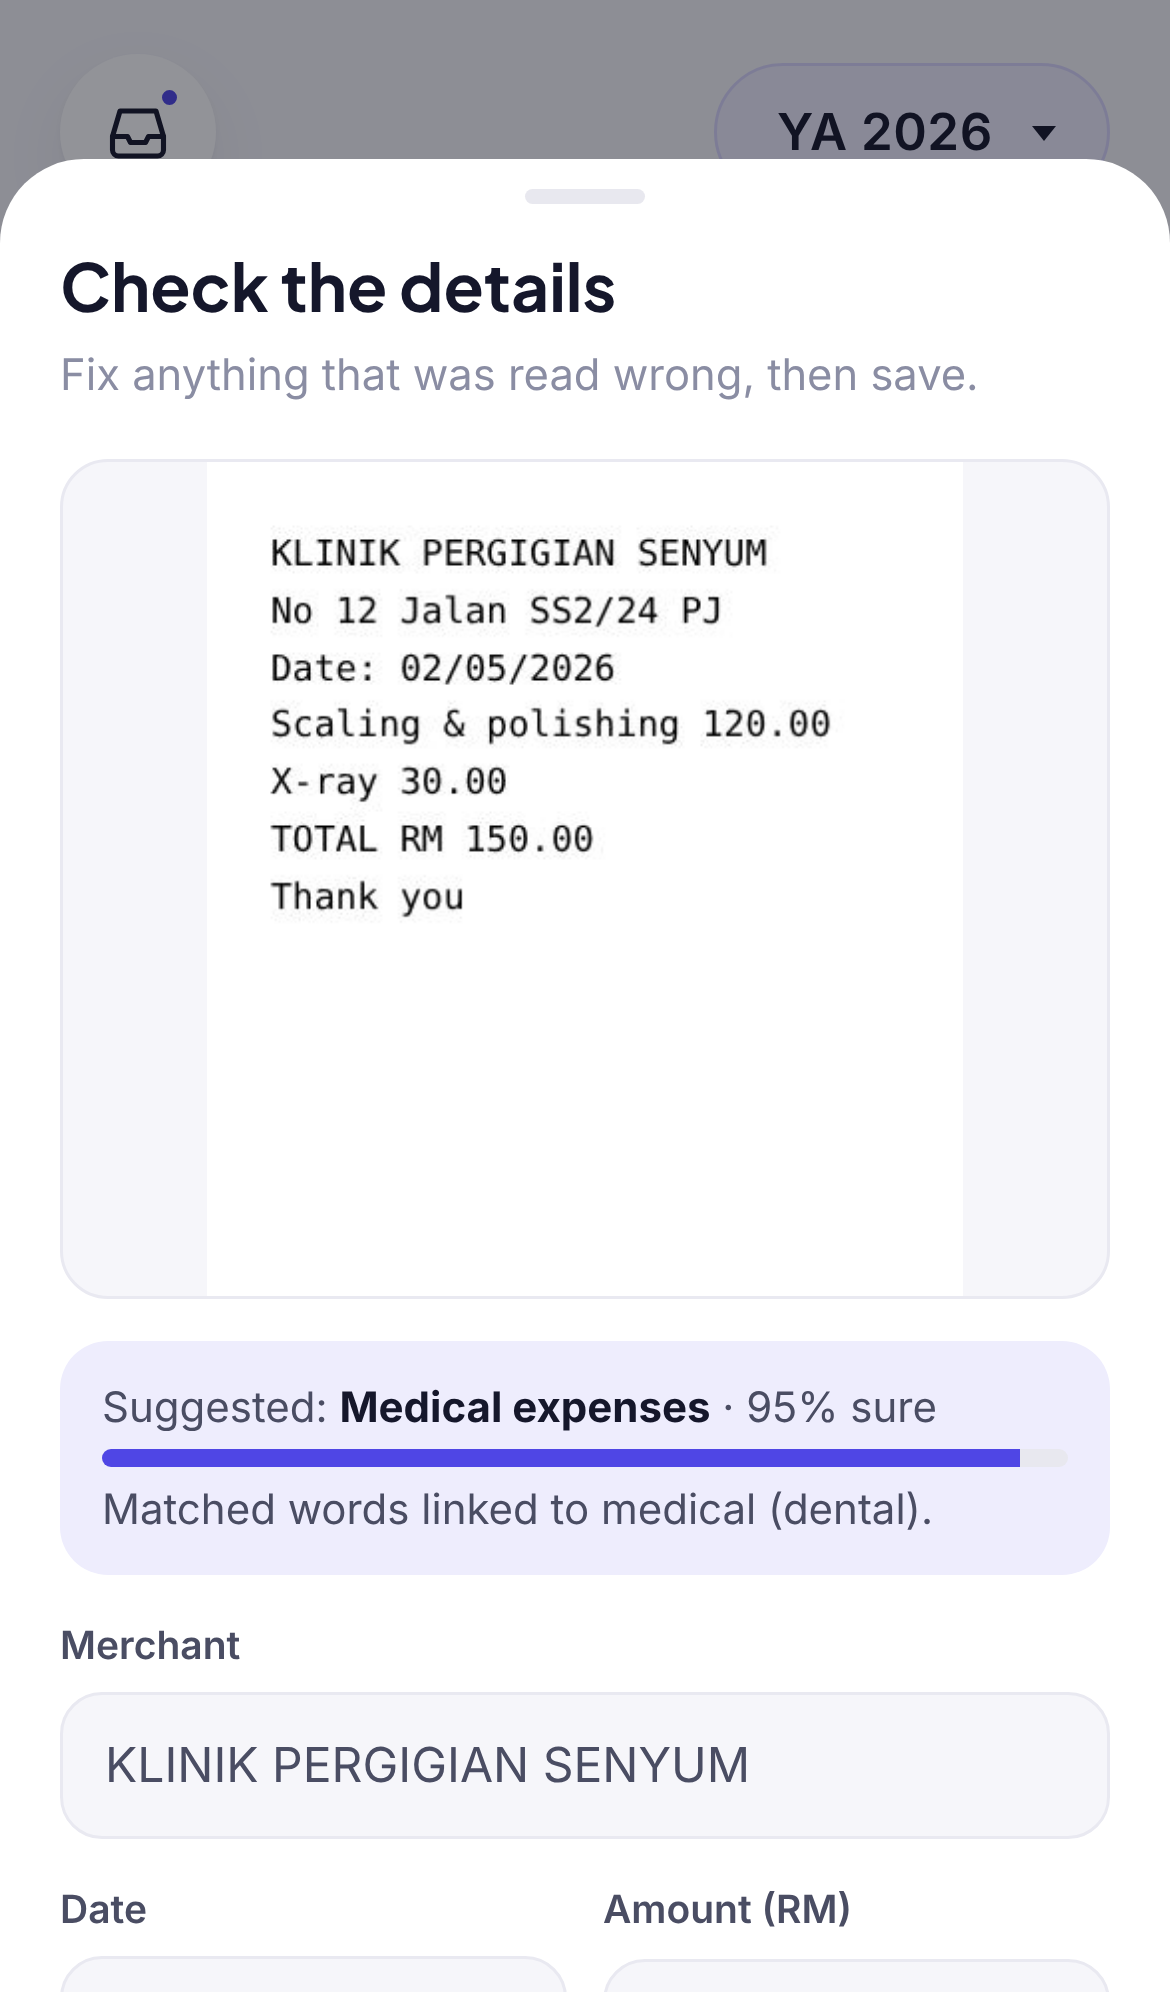
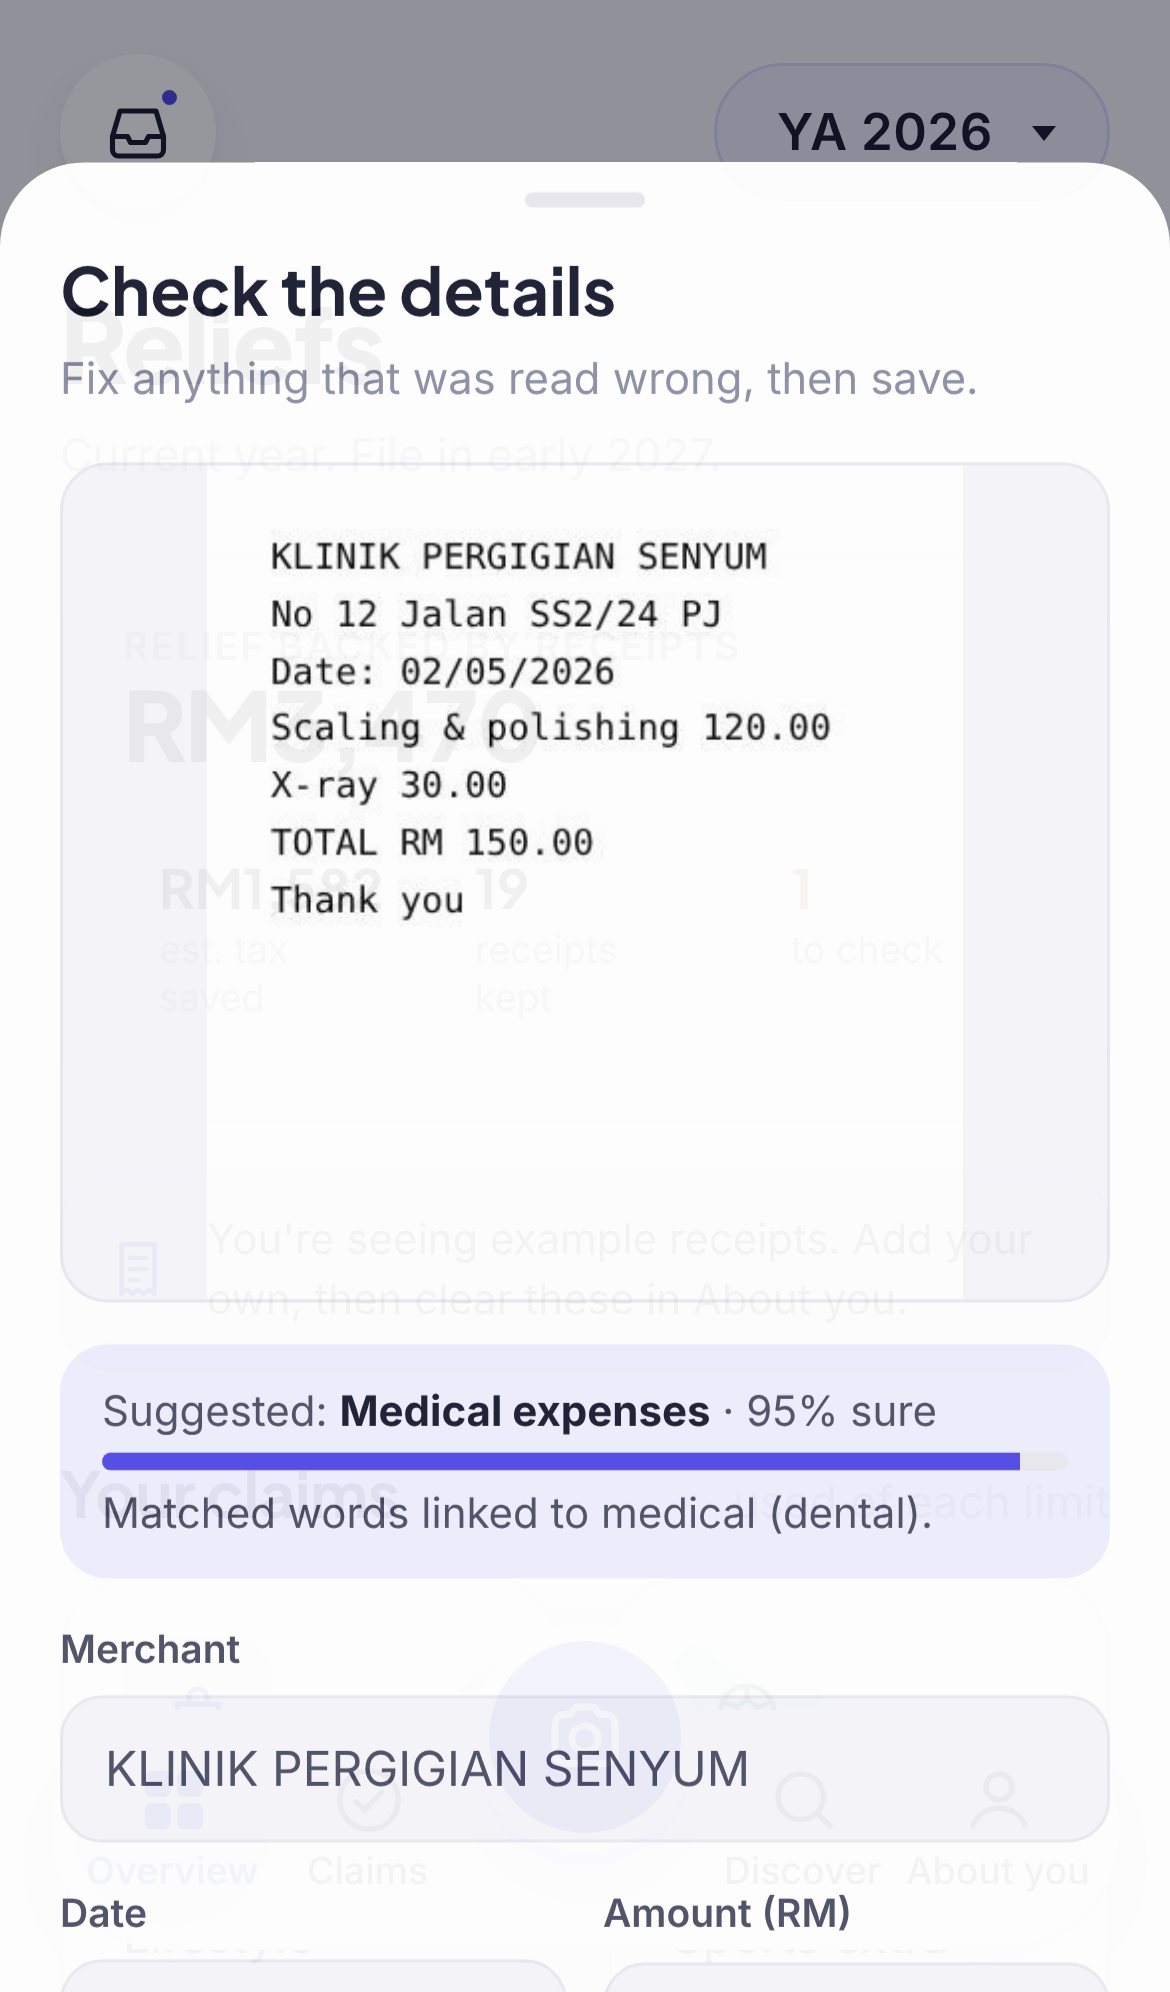
Serve OCR language file as .wasm so static hosts deliver it
Claude-Session: https://claude.ai/code/session_01C2vH43JqQipfS2FB1PLxzq

diff --git a/app.js b/app.js
@@ -357,7 +357,10 @@
     progressCb = onProgress;
     const T = await loadTesseract();
     workerP ||= T.createWorker('eng', 1, {
-      workerPath: OCR_BASE + 'worker.min.js', corePath: OCR_BASE, langPath: OCR_BASE,
+      workerPath: OCR_BASE + 'worker.min.js', corePath: OCR_BASE,
+      // The language file is stored as .wasm so static hosts serve it as binary. Tesseract asks for
+      // `${langPath}/eng.traineddata.gz`, so the query string swallows that suffix.
+      langPath: OCR_BASE + 'eng-traineddata.wasm?file=',
       logger: m => { if (m.status === 'recognizing text') progressCb(m.progress); },
     }).catch(e => { workerP = null; throw e; });
     const timeout = new Promise((_, rej) => setTimeout(() => rej(new Error('OCR took too long')), 90000));
